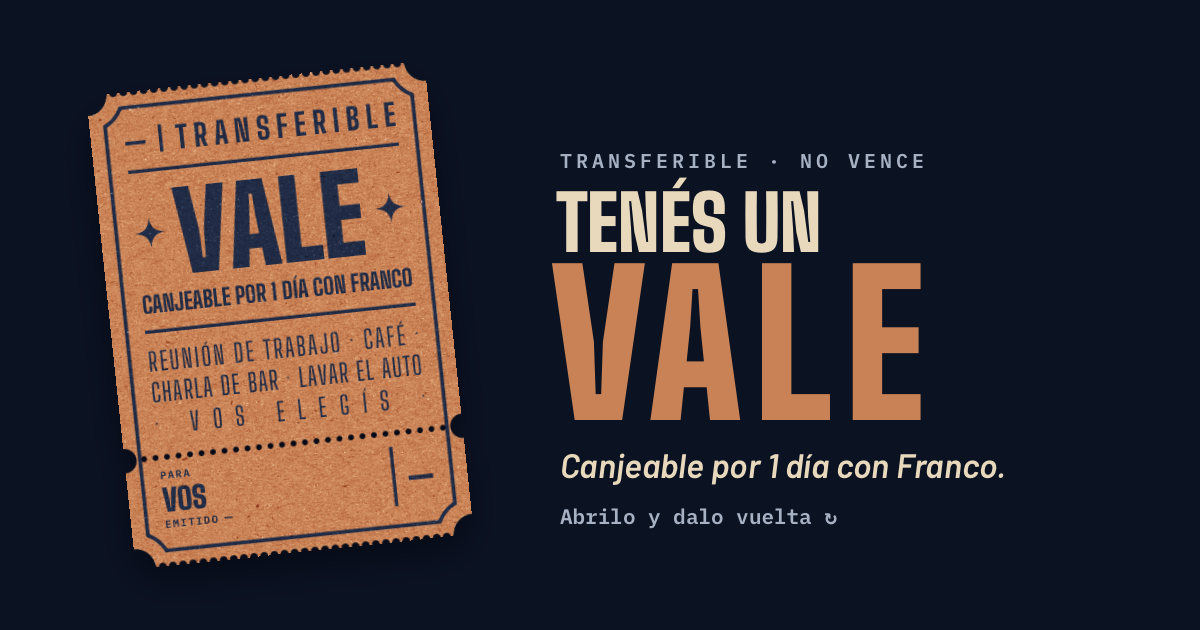
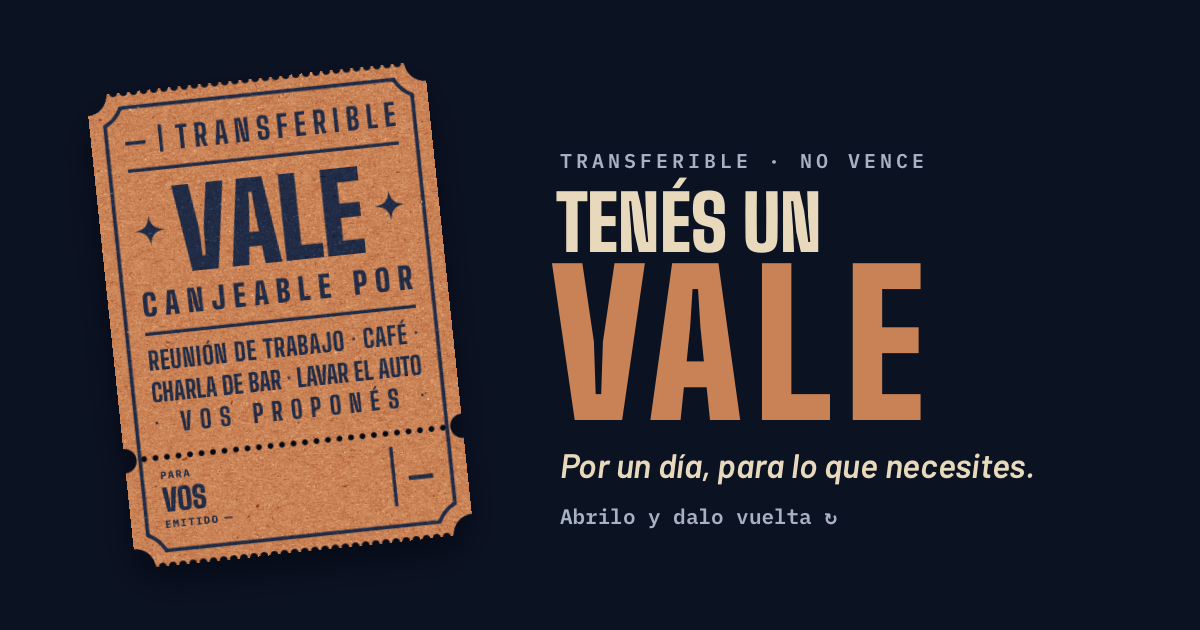
Nueva vista previa del link y sin la fila del CV en el contacto
Claude-Session: https://claude.ai/code/session_018ukTBDuMMX9y1APLCycuMW

diff --git a/assets/comodin.css b/assets/comodin.css
@@ -75,7 +75,7 @@ main { max-width: 1000px; margin: 0 auto; padding-block: 24px 56px; }
 .sh-shade, .sh-band { position: absolute; top: 0; bottom: 0; left: -100%; width: 300%; transform: translateX(var(--sx)); }
 .sh-shade { background: linear-gradient(105deg, rgba(10, 14, 35, .26) 0%, rgba(10, 14, 35, .08) 25%, rgba(10, 14, 35, 0) 40%, rgba(10, 14, 35, 0) 60%, rgba(10, 14, 35, .08) 75%, rgba(10, 14, 35, .26) 100%); }
 .sh-glint { position: absolute; inset: 0; overflow: hidden;
-  -webkit-mask: url("papel-relieve.png?v=20261021214710") center / cover; mask: url("papel-relieve.png?v=20261021214710") center / cover; }
+  -webkit-mask: url("papel-relieve.png?v=20261021215021") center / cover; mask: url("papel-relieve.png?v=20261021215021") center / cover; }
 .sh-band { background: linear-gradient(105deg, rgba(255, 244, 225, 0) 24%, rgba(255, 244, 225, .18) 38%, rgba(255, 244, 225, .42) 50%, rgba(255, 244, 225, .18) 62%, rgba(255, 244, 225, 0) 76%); }
 .shadow { position: absolute; inset: 0; filter: drop-shadow(0 10px 14px rgba(3, 6, 16, .6)) drop-shadow(0 1px 1px rgba(3, 6, 16, .5)); }
 /* esquinas cóncavas */
@@ -98,14 +98,14 @@ main { max-width: 1000px; margin: 0 auto; padding-block: 24px 56px; }
 .back .paper { background: var(--paper); }
 /* papel: la foto en luz suave sobre el color de cada cara; la tinta va encima con opacidad y la textura
    vuelve por arriba en luz suave (grano sobre la tinta) y en trama (brillos de las fibras) */
-.paper { isolation: isolate; background-image: url("papel.jpg?v=20261021214710"); background-position: center; background-size: cover; background-blend-mode: soft-light; }
-.paper::before { content: ""; position: absolute; inset: 0; z-index: 1; pointer-events: none; background: url("papel.jpg?v=20261021214710") center / cover; mix-blend-mode: soft-light; opacity: .8; }
-.paper::after { content: ""; position: absolute; inset: 0; z-index: 1; pointer-events: none; background: url("papel-luz.jpg?v=20261021214710") center / cover; mix-blend-mode: screen; opacity: .5; }
+.paper { isolation: isolate; background-image: url("papel.jpg?v=20261021215021"); background-position: center; background-size: cover; background-blend-mode: soft-light; }
+.paper::before { content: ""; position: absolute; inset: 0; z-index: 1; pointer-events: none; background: url("papel.jpg?v=20261021215021") center / cover; mix-blend-mode: soft-light; opacity: .8; }
+.paper::after { content: ""; position: absolute; inset: 0; z-index: 1; pointer-events: none; background: url("papel-luz.jpg?v=20261021215021") center / cover; mix-blend-mode: screen; opacity: .5; }
 .ink { opacity: .9; }
 .front { --ink: #172644; }
 .front .ink { opacity: .95; }
 /* en la terracota el grano se nota más: se atenúa un tercio con un velo del mismo color */
-.front .paper { background-image: linear-gradient(rgba(201, 130, 85, .32), rgba(201, 130, 85, .32)), url("papel.jpg?v=20261021214710"); background-size: auto, cover; background-blend-mode: normal, soft-light; }
+.front .paper { background-image: linear-gradient(rgba(201, 130, 85, .32), rgba(201, 130, 85, .32)), url("papel.jpg?v=20261021215021"); background-size: auto, cover; background-blend-mode: normal, soft-light; }
 .front .paper::before { opacity: .55; }
 .front .paper::after { opacity: .36; }
 .frame { position: absolute; inset: 0; width: 100%; height: 100%; pointer-events: none; }

diff --git a/index.html b/index.html
@@ -11,7 +11,7 @@
 <meta property="og:type" content="website">
 <meta property="og:title" content="Tenés un comodín">
 <meta property="og:description" content="Un vale de Franco por un día, para lo que necesites. Abrilo y dalo vuelta.">
-<meta property="og:image" content="https://0xfrann.github.io/comodin/og.png?v=20261021214710">
+<meta property="og:image" content="https://0xfrann.github.io/comodin/og.png?v=20261021215021">
 <meta property="og:image:width" content="1200">
 <meta property="og:image:height" content="630">
 <meta name="twitter:card" content="summary_large_image">
@@ -20,7 +20,7 @@
 <link rel="preconnect" href="https://fonts.googleapis.com">
 <link rel="preconnect" href="https://fonts.gstatic.com" crossorigin>
 <link rel="stylesheet" href="https://fonts.googleapis.com/css2?family=Big+Shoulders+Display:wght@500;800;900&family=Barlow:ital,wght@0,400;0,500;0,600;0,700;1,500;1,600&family=IBM+Plex+Mono:wght@500;600;700&display=swap">
-<link rel="stylesheet" href="assets/comodin.css?v=20261021214710">
+<link rel="stylesheet" href="assets/comodin.css?v=20261021215021">
 </head>
 <body>
 <main>
@@ -50,16 +50,13 @@
         <div class="row">
           <dt>LinkedIn</dt><dd class="link-cell"><a id="lnLinkedin" target="_blank" rel="noopener"><span id="lnLinkedinText">franndalmasso</span><span class="arrow" aria-hidden="true">↗</span></a></dd>
         </div>
-        <div class="row">
-          <dt>CV</dt><dd class="link-cell"><a id="lnCv" target="_blank" rel="noopener"><span>Ver PDF</span><span class="arrow" aria-hidden="true">↗</span></a></dd>
-        </div>
       </dl>
     </section>
   </section>
 </main>
 
-<script src="assets/config.js?v=20261021214710"></script>
-<script src="assets/comodin.js?v=20261021214710"></script>
+<script src="assets/config.js?v=20261021215021"></script>
+<script src="assets/comodin.js?v=20261021215021"></script>
 <script>
 (function () {
   const { C, $, pad, firstName, esc } = Comodin;
@@ -74,7 +71,6 @@
   $("#copyMail").addEventListener("click", () => Comodin.copyText(C.email, $("#mailText"), "Email copiado"));
   $("#lnLinkedin").href = C.linkedin;
   $("#lnLinkedinText").textContent = C.linkedin.replace(/^https?:\/\/(www\.)?linkedin\.com\/in\//, "").replace(/\/$/, "");
-  $("#lnCv").href = C.cv;
 
   function route() {
     const c = Comodin.parse(location.hash) || { n: 0, nombre: "", fecha: "" };

diff --git a/emitir.html b/emitir.html
@@ -14,7 +14,7 @@
 <link rel="preconnect" href="https://fonts.googleapis.com">
 <link rel="preconnect" href="https://fonts.gstatic.com" crossorigin>
 <link rel="stylesheet" href="https://fonts.googleapis.com/css2?family=Big+Shoulders+Display:wght@500;800;900&family=Barlow:ital,wght@0,400;0,500;0,600;0,700;1,500;1,600&family=IBM+Plex+Mono:wght@500;600;700&display=swap">
-<link rel="stylesheet" href="assets/comodin.css?v=20261021214710">
+<link rel="stylesheet" href="assets/comodin.css?v=20261021215021">
 <style>
   /* Emisor: app de una sola columna con barra de pestañas abajo, pensada para el pulgar. */
   body { padding-bottom: calc(76px + env(safe-area-inset-bottom, 0px)); }
@@ -229,8 +229,8 @@
   </div>
 </div>
 
-<script src="assets/config.js?v=20261021214710"></script>
-<script src="assets/comodin.js?v=20261021214710"></script>
+<script src="assets/config.js?v=20261021215021"></script>
+<script src="assets/comodin.js?v=20261021215021"></script>
 <script>
 (function () {
   const { C, $, $$, pad, today, fmtFecha, firstName, esc, toast } = Comodin;

diff --git a/assets/comodin.js b/assets/comodin.js
@@ -53,7 +53,7 @@
   /* ---------- texturas del papel ---------- */
   const ASSETS = (document.currentScript && document.currentScript.src) || location.href;
   const texImg = {};
-  const texturesReady = Promise.all([["base", "papel.jpg?v=20261021214710"], ["luz", "papel-luz.jpg?v=20261021214710"]].map(([k, f]) => new Promise((res) => {
+  const texturesReady = Promise.all([["base", "papel.jpg?v=20261021215021"], ["luz", "papel-luz.jpg?v=20261021215021"]].map(([k, f]) => new Promise((res) => {
     const im = new Image(); im.onload = () => { texImg[k] = im; res(); }; im.onerror = () => res(); im.src = new URL(f, ASSETS).href;
   })));
 

diff --git a/herramientas/og.html b/herramientas/og.html
@@ -19,8 +19,8 @@
 <p>Esta es la imagen que muestra WhatsApp cuando mandás el link. Descargala y subila a la raíz del repo como <b>og.png</b>.</p>
 <canvas id="cv" width="1200" height="630"></canvas>
 <button id="dl" type="button">Descargar og.png</button>
-<script src="../assets/config.js?v=20261021214710"></script>
-<script src="../assets/comodin.js?v=20261021214710"></script>
+<script src="../assets/config.js?v=20261021215021"></script>
+<script src="../assets/comodin.js?v=20261021215021"></script>
 <script>
 (async function () {
   const C = window.COMODIN_CONFIG, cv = document.getElementById("cv"), x = cv.getContext("2d");
